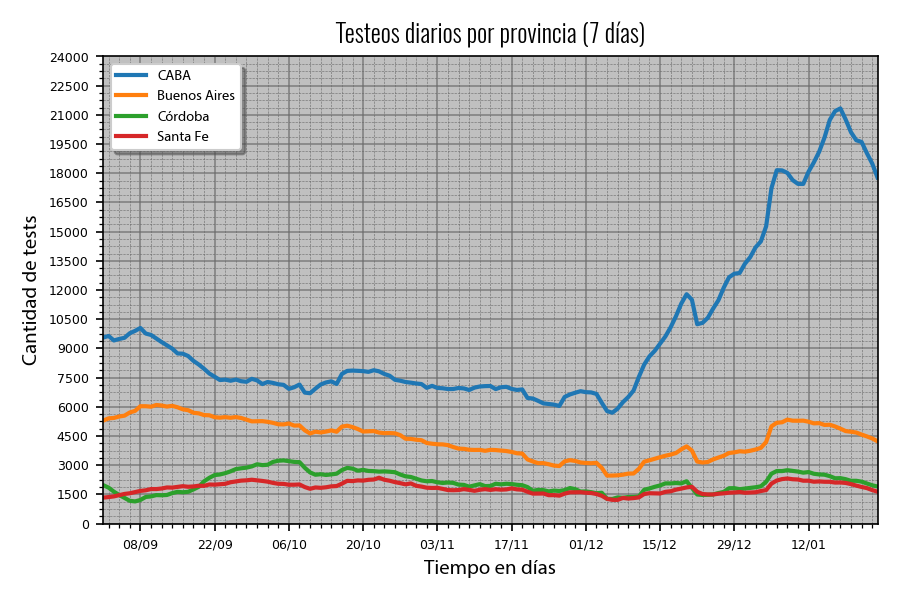
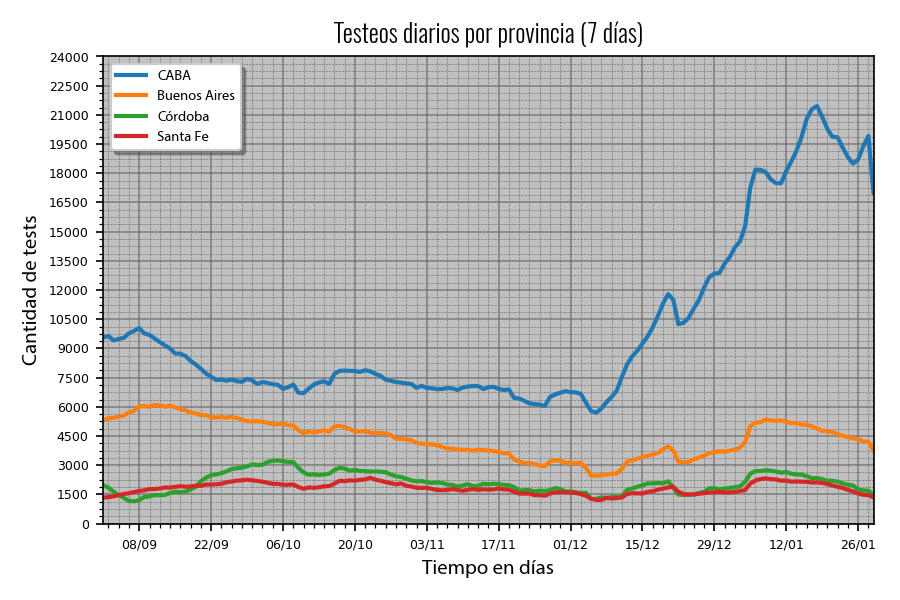
Updating testing charts...

Changed region(s): [[0.1244, 0.03, 0.9956, 0.96], [0.1244, 0.9, 0.1867, 0.93]]

diff --git a/COVID-19_DataGobAr_TestsAnalysis.py b/COVID-19_DataGobAr_TestsAnalysis.py
@@ -22,14 +22,14 @@ chartPath = "Argentina_Data/actual_charts/testing/"
 colorlist = ["orange", "tab:blue", "tab:red", "tab:green"]
 
 dataStartDate = "2020-02-11"
-dataEndDate = "2021-01-29"
+dataEndDate = "2021-02-01"
 wantedStartDate = "2020-09-01"
-wantedEndDate = "2021-01-25"
+wantedEndDate = "2021-01-29"
 dataPeriod = pd.date_range(dataStartDate, dataEndDate)
 plotScale = "linear"
 
 #Deciding language for titles and tags...
-lg = 1 # 0 for english, 1 for spanish
+lg = 0 # 0 for english, 1 for spanish
 ticksSizes = [1500, 250000, 0.1, 100000]
 
 #Deciding if you want to save and show charts...
